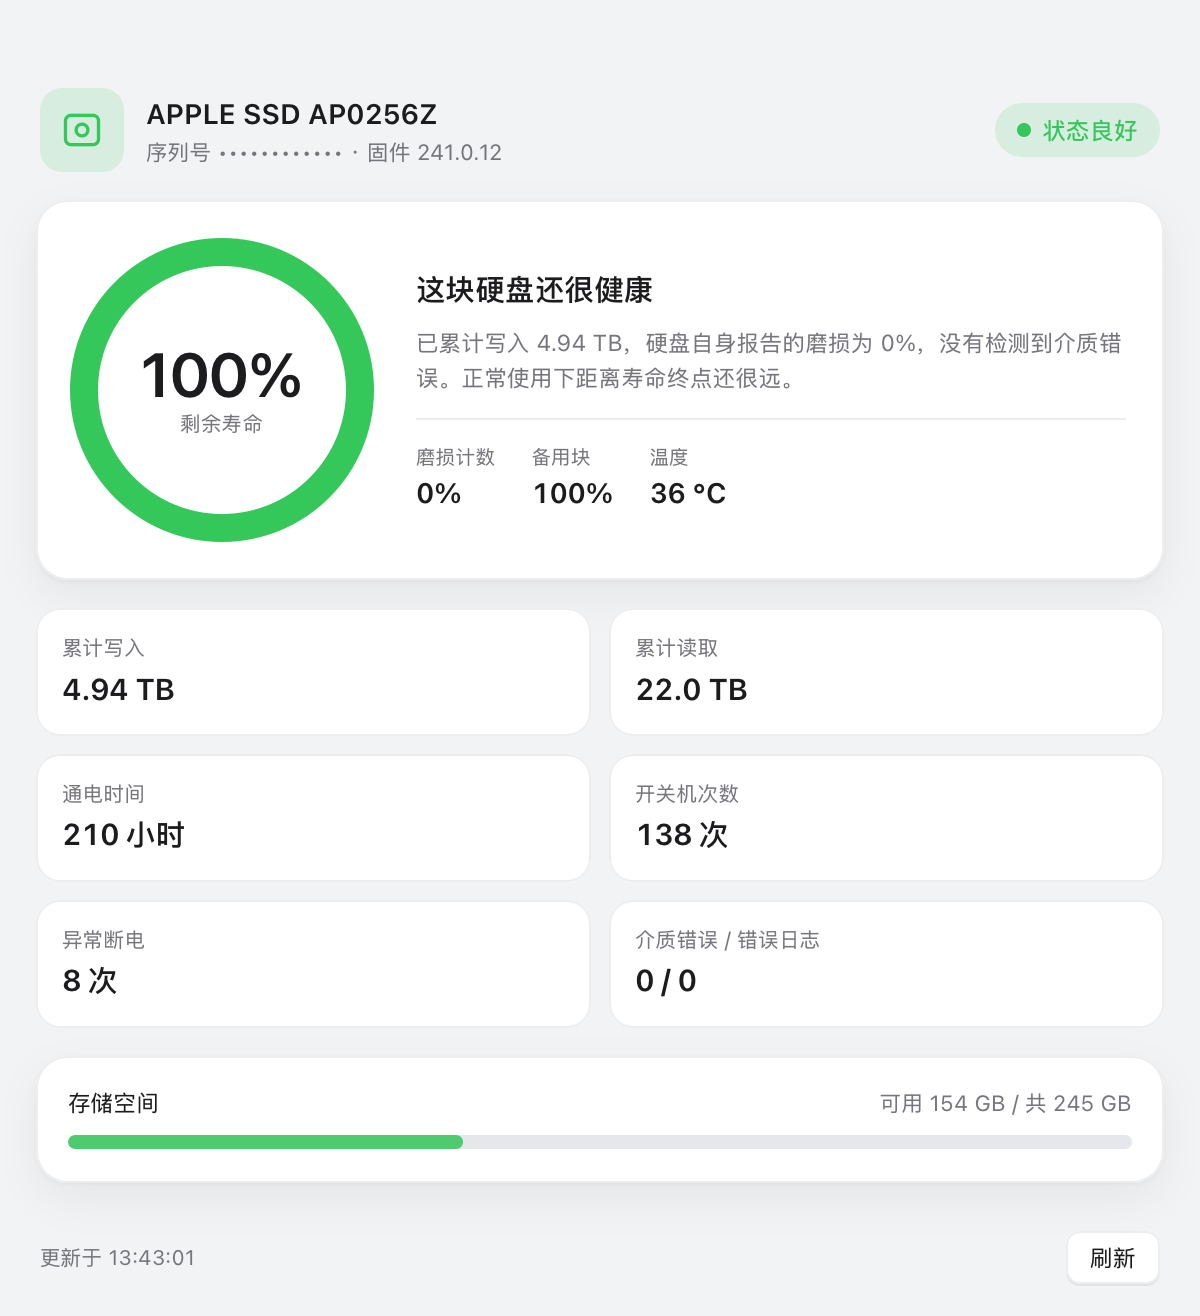
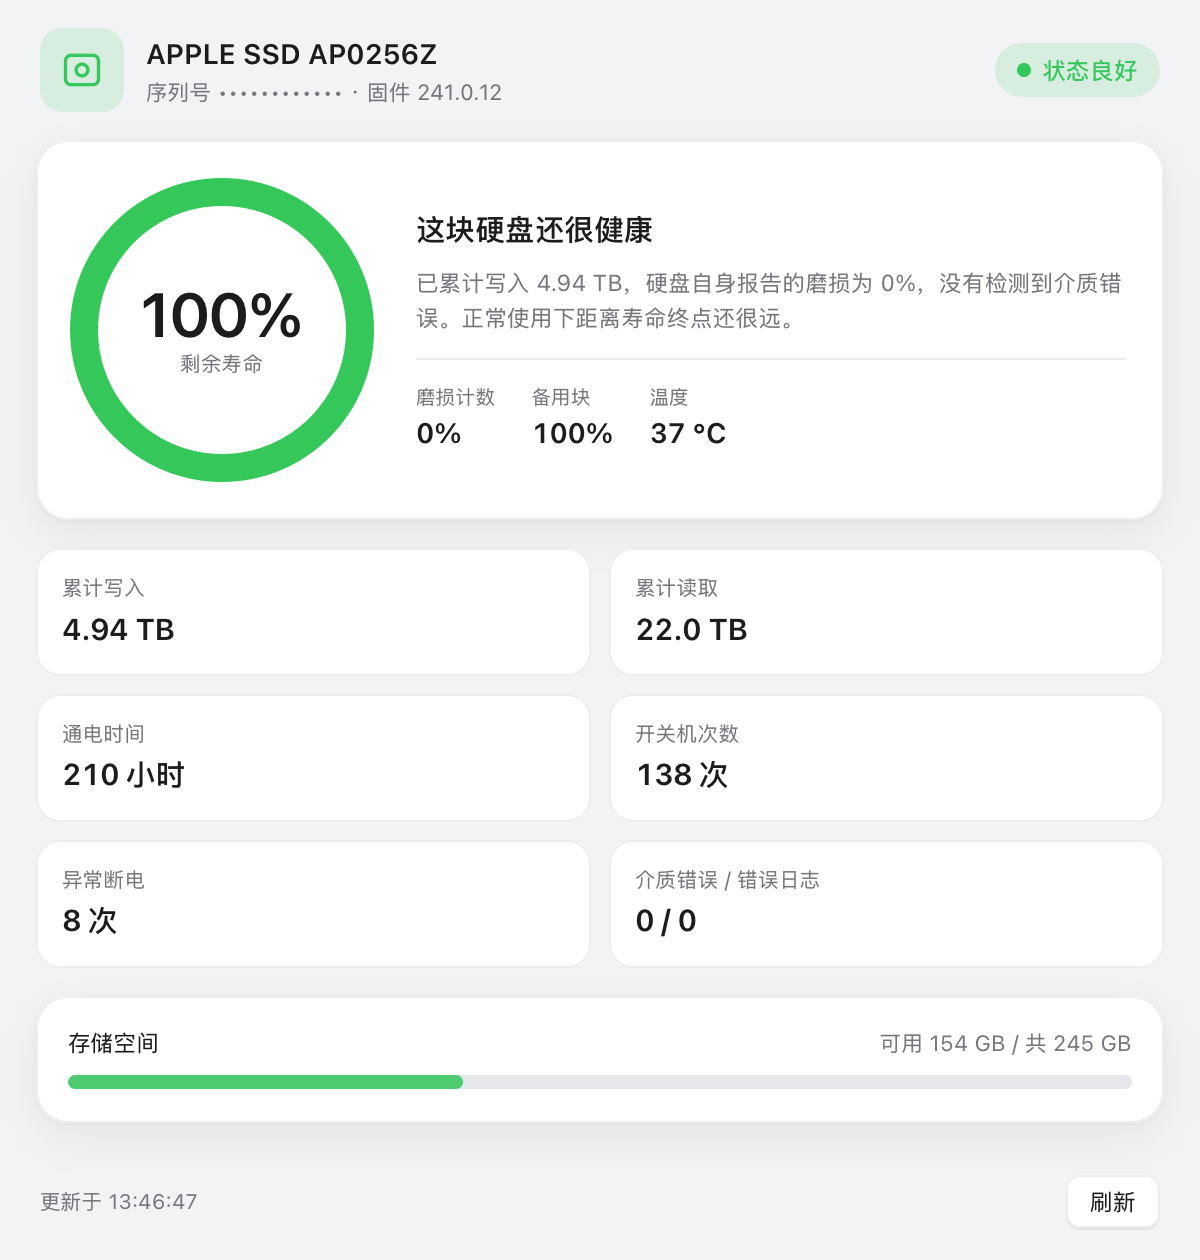
Fix window dragging with a real titlebar; withdraw 1.0.x releases
The window used .fullSizeContentView with a transparent hidden titlebar, so the
web view covered everything and AppKit had no titlebar to drag. 1.0.1 dropped
isMovableByWindowBackground and 1.0.2's transparent strip relied on
mouseDownCanMoveWindow, which only applies together with window-background
dragging - neither moved the window.

- drop .fullSizeContentView: real 32pt titlebar, web view sits below it;
  hit-testing the top edge now returns NSThemeFrame (AppKit handles the drag)
- page top padding 44 -> 14px, content height 630, bump to 1.1.0
- regenerate screenshots

diff --git a/src/AppDelegate.swift b/src/AppDelegate.swift
@@ -7,26 +7,14 @@ final class ClickThroughWebView: WKWebView {
     override func acceptsFirstMouse(for event: NSEvent?) -> Bool { true }
 }
 
-/// Transparent strip across the top of the window that lets you drag it.
-/// With .fullSizeContentView the web view covers the whole window, so without
-/// this there is no draggable area at all.
-final class DragBarView: NSView {
-    override var mouseDownCanMoveWindow: Bool { true }
-    override func acceptsFirstMouse(for event: NSEvent?) -> Bool { true }
-}
-
 final class AppDelegate: NSObject, NSApplicationDelegate, WKNavigationDelegate, WKScriptMessageHandler {
 
     private var window: NSWindow!
     private var webView: ClickThroughWebView!
-    private var dragBar: DragBarView!
 
     /// Serializes SMART reads: the C helper returns a static buffer.
     private let healthQueue = DispatchQueue(label: "com.ch.diskhealth.reader")
     private var isRefreshing = false
-
-    /// Matches the web page's top padding: the drag strip sits entirely in it.
-    private let dragStripHeight: CGFloat = 40
 
     /// UI language: follows the system, can be forced with DH_LANG=zh|en.
     private let isChinese: Bool = {
@@ -53,40 +41,22 @@ final class AppDelegate: NSObject, NSApplicationDelegate, WKNavigationDelegate, 
             webView.underPageBackgroundColor = .windowBackgroundColor
         }
 
-        dragBar = DragBarView(frame: .zero)
-        dragBar.wantsLayer = true
-        dragBar.layer?.backgroundColor = NSColor.clear.cgColor
-
-        let container = NSView(frame: NSRect(x: 0, y: 0, width: 600, height: 658))
-        container.autoresizingMask = [.width, .height]
-        webView.translatesAutoresizingMaskIntoConstraints = false
-        dragBar.translatesAutoresizingMaskIntoConstraints = false
-        container.addSubview(webView)
-        container.addSubview(dragBar)
-        NSLayoutConstraint.activate([
-            webView.leadingAnchor.constraint(equalTo: container.leadingAnchor),
-            webView.trailingAnchor.constraint(equalTo: container.trailingAnchor),
-            webView.topAnchor.constraint(equalTo: container.topAnchor),
-            webView.bottomAnchor.constraint(equalTo: container.bottomAnchor),
-
-            dragBar.leadingAnchor.constraint(equalTo: container.leadingAnchor),
-            dragBar.trailingAnchor.constraint(equalTo: container.trailingAnchor),
-            dragBar.topAnchor.constraint(equalTo: container.topAnchor),
-            dragBar.heightAnchor.constraint(equalToConstant: dragStripHeight),
-        ])
-
+        // A real (but transparent, title-less) titlebar: dragging it is handled
+        // by AppKit itself, so the window can always be moved. The web view
+        // lives below it instead of covering the whole window.
         window = NSWindow(
-            contentRect: NSRect(x: 0, y: 0, width: 600, height: 658),
-            styleMask: [.titled, .closable, .miniaturizable, .resizable, .fullSizeContentView],
+            contentRect: NSRect(x: 0, y: 0, width: 600, height: 630),
+            styleMask: [.titled, .closable, .miniaturizable, .resizable],
             backing: .buffered,
             defer: false
         )
         window.title = t("硬盘健康", "Disk Health")
         window.titlebarAppearsTransparent = true
         window.titleVisibility = .hidden
+        window.isMovableByWindowBackground = true
         window.backgroundColor = .windowBackgroundColor
-        window.minSize = NSSize(width: 540, height: 600)
-        window.contentView = container
+        window.minSize = NSSize(width: 540, height: 580)
+        window.contentView = webView
         if ProcessInfo.processInfo.environment["DH_DARK"] != nil {
             window.appearance = NSAppearance(named: .darkAqua)
         }

diff --git a/src/index.html b/src/index.html
@@ -48,7 +48,7 @@
   .num { font-variant-numeric: tabular-nums; }
 
   .app {
-    padding: 44px 18px 16px;
+    padding: 14px 18px 16px;
     display: flex;
     flex-direction: column;
     gap: 14px;
